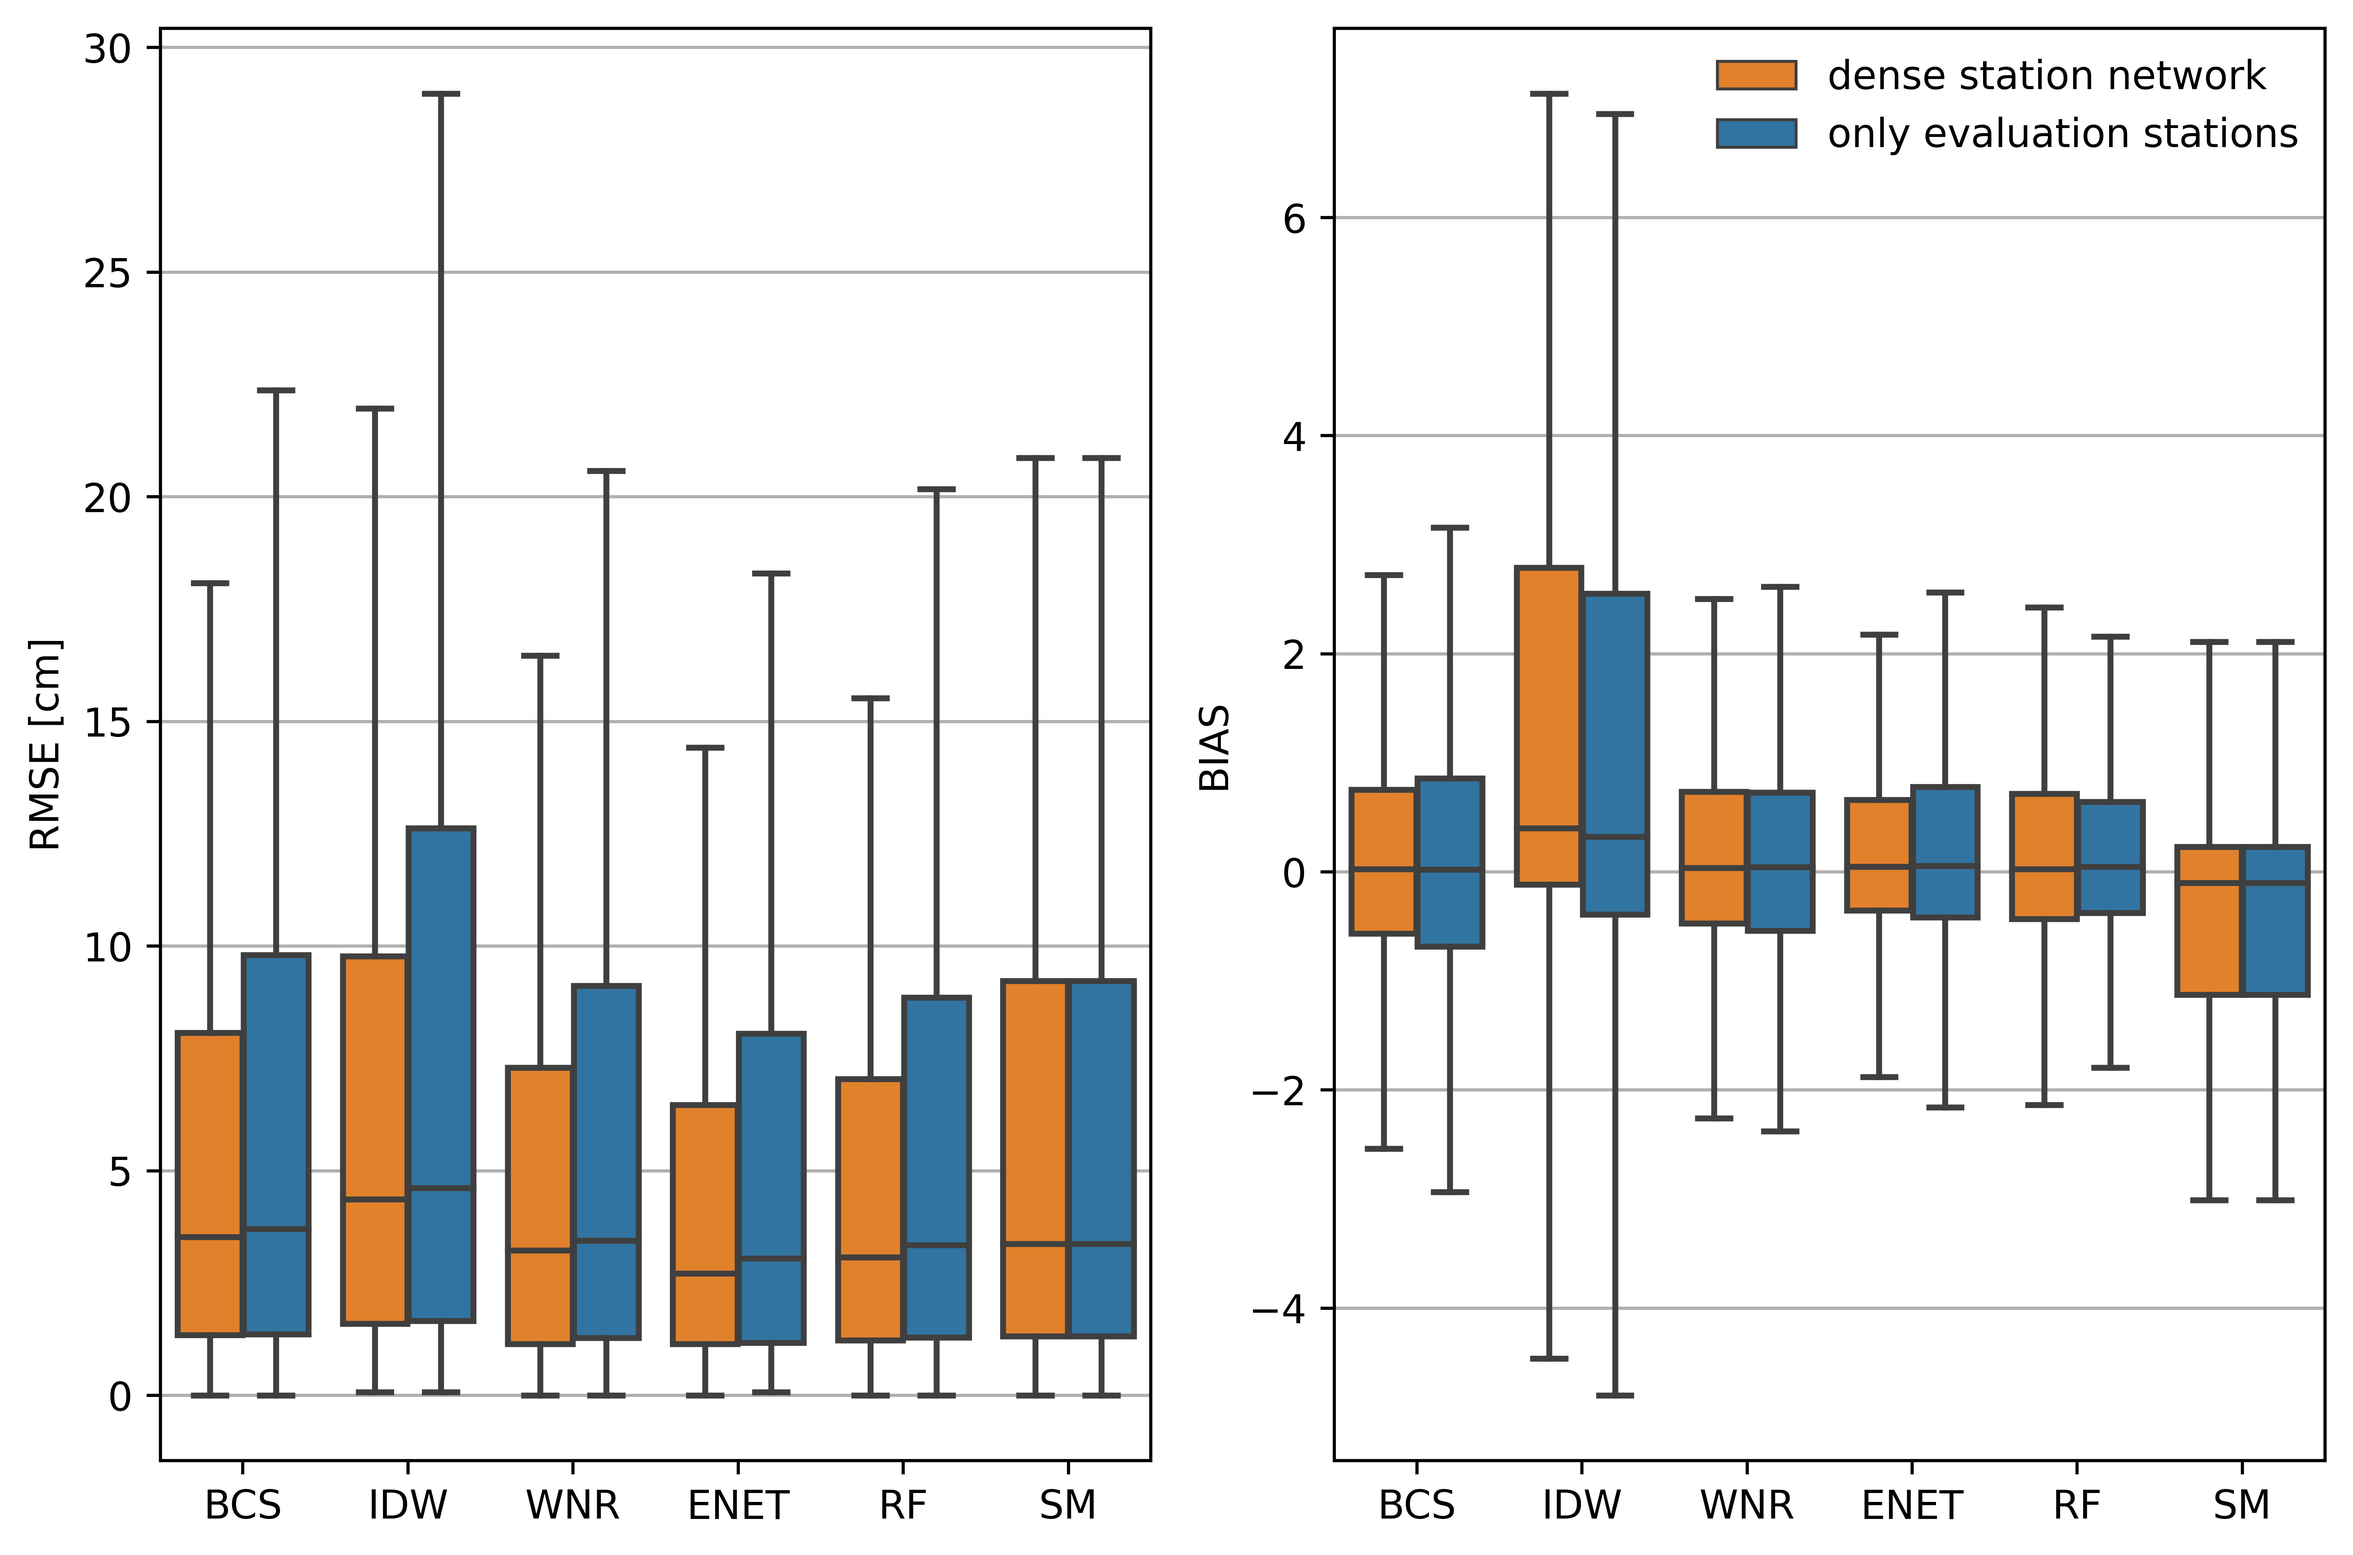
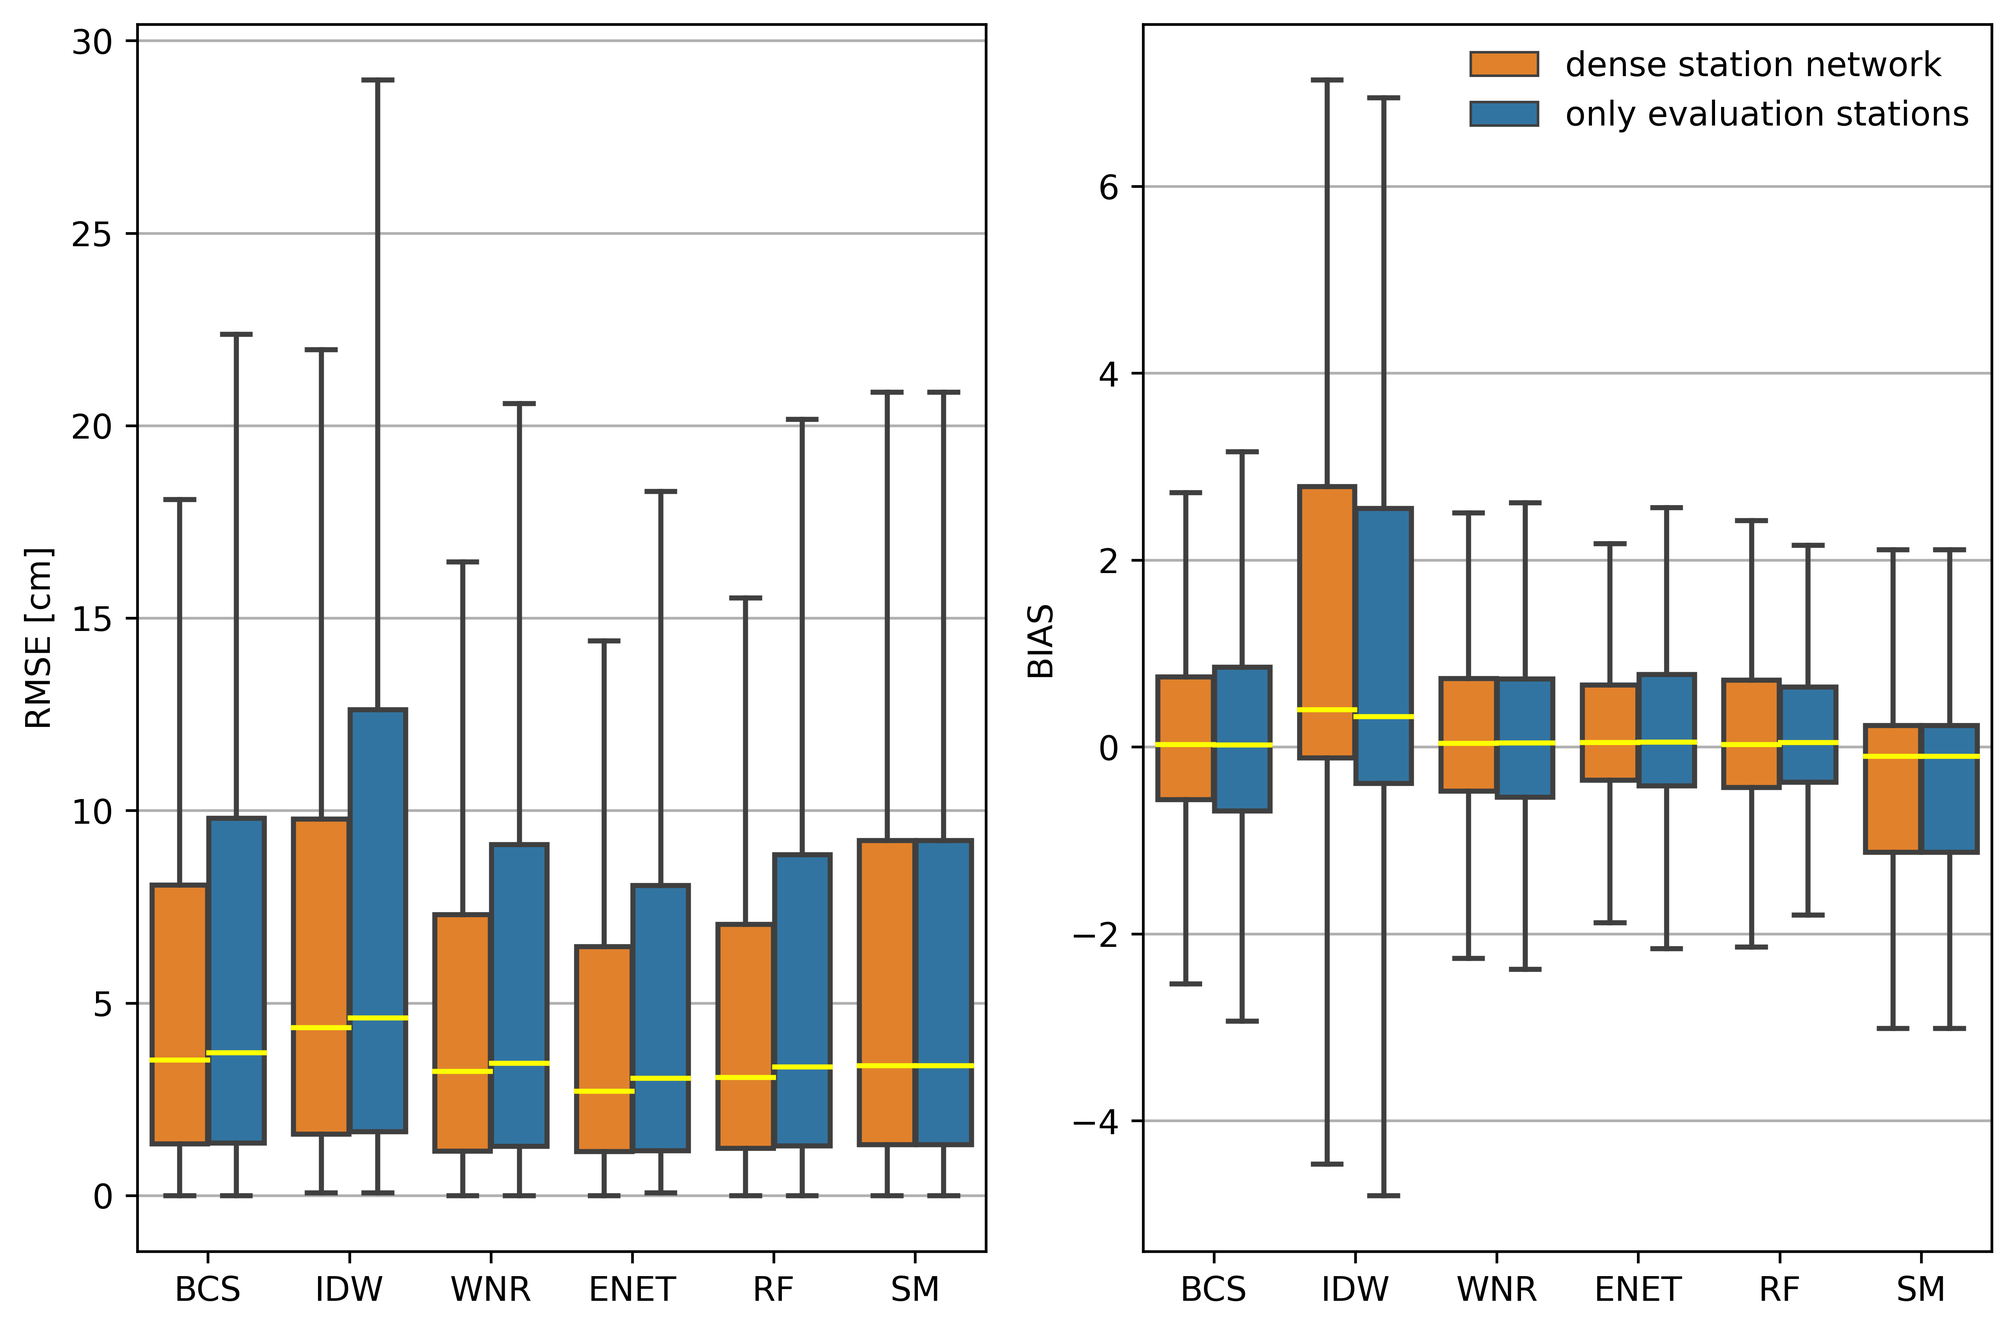
update plots

diff --git a/src/cv_evaluate_scores.py b/src/cv_evaluate_scores.py
@@ -212,12 +212,21 @@ def scatterplot_true_vs_pred(
         legend_kw=None,
         equal_xy_axes=False,
         fitlines=False,
-        score_df=sc
+        print_score_values=False,
+        score_df=sc,
+        panel_height=2.25,
+        panel_width=2.1,
+        sharex=False,
+        sharey=False,
+        individual_panel_labels=False,
+        global_x_label='measured [cm or days]',
+        global_y_label='modeled [cm or days]',
+        markersize=5
         ):
 
     fig, axes = plt.subplots(len(climate_metrics),len(methods_used),
-                             figsize=[len(methods_used)*2.1,len(climate_metrics)*2.5], 
-                             sharex=False, sharey=False)
+                             figsize=[len(methods_used)*panel_width,len(climate_metrics)*panel_height], 
+                             sharex=sharex, sharey=sharey)
     
     #different markers and colors for different station grids:
     markers={'full': "s",
@@ -255,6 +264,7 @@ def scatterplot_true_vs_pred(
                     ax=axes[row,column],
                     color=color,
                     marker=marker,
+                    s=markersize,
                     alpha=0.4,
                     label=station_grid)
 
@@ -288,21 +298,28 @@ def scatterplot_true_vs_pred(
 
                 # y-labels
                 if column == 0:
-                    axes[row,column].set_ylabel(f'{metric} modeled{units[metric]}', fontsize=11)
+                    if individual_panel_labels:
+                        axes[row,column].set_ylabel(f'{metric} modeled{units[metric]}', fontsize=11)
+                    else:
+                        axes[row,column].set_ylabel(f'{metric}', fontsize=13)
+                        axes[row,column].yaxis.set_label_coords(-0.4,0.5)
                 else:
                     axes[row,column].set_ylabel(None)
                     axes[row,column].tick_params(labelleft=False)
                 
-                axes[row,column].set_xlabel(f'{metric} measured{units[metric]}',
-                                            fontsize=11)
-
+                if individual_panel_labels:
+                    axes[row,column].set_xlabel(f'{metric} measured{units[metric]}',
+                                                fontsize=11)
+                else:
+                    axes[row,column].set_xlabel(None)
+                
                 # titles
                 if row == 0:
                     axes[row,column].set_title(pu.METHOD_NAMES[method], fontsize=13)
                     if legend_kw['bbox_to_anchor']=='below_titles':
                         axes[row,column].set_title(f'{pu.METHOD_NAMES[method]}\n', fontsize=13)
     
-    if fitlines:
+    if print_score_values:
         # Annotations with mixed colors: extremely hacky...
         for score_metric in ['rmse','r2','bias']:
             for row, metric in enumerate(climate_metrics):
@@ -323,7 +340,7 @@ def scatterplot_true_vs_pred(
                         score_sparse = score_annotations[f"{method}{metric}only_target_stations{score_metric}"]
                         plt.rcParams.update({
                                 "text.usetex": True})
-                        fs = 12.5
+                        fs = 11.5
     
                         
                         x_pos = {'full':0.80, 'only_target_stations':0.99}
@@ -420,7 +437,11 @@ def scatterplot_true_vs_pred(
     # draw x=y line:
     for ax in axes.flatten():
         ax.axline([0, 0], [1, 1], color='k',lw=0.9)
-            
+    
+    if not individual_panel_labels:
+        fig.text(0.5, 0.0, global_x_label, ha='center', va='center')
+        fig.text(0.04, 0.5, global_y_label, ha='center', va='center', rotation='vertical')
+    
     plt.tight_layout()
     if no_legend:
         if filename is not None:
@@ -447,7 +468,7 @@ def scatterplot_true_vs_pred(
         
         if legend_kw['bbox_to_anchor']=='below_titles':
             legend_kw['loc'] = 'upper center'
-            legend_kw['bbox_to_anchor'] = (0.515, 0.96)
+            legend_kw['bbox_to_anchor'] = (0.515, 0.955)
             legend_kw['borderaxespad'] = 0.
             legend_kw['ncol'] = 2
             legend_kw['fancybox'] = False
@@ -515,6 +536,7 @@ def evaluation_boxplot(methods_used,
             # sym='',
             showfliers=showfliers,
             flierprops={'marker':'x'},
+            medianprops={'color':'yellow'},
             ax=ax)
 
         try:
@@ -661,6 +683,7 @@ def scatter_and_boxplot_subgrid(
                         # sym='',
                         # showfliers=False,
                         flierprops={'marker':'x'},
+                        medianprops={'color':'yellow'},
                         ax=outer_ax[1])
                     for ax in outer_ax:
                         ax.get_legend().remove()
@@ -832,6 +855,7 @@ def scatterboxbins(
                 showfliers=showfliers,
                 flierprops={'marker':'d',
                             'markersize':2},
+                medianprops={'color':'yellow'},
                 ax=axs[row,column])
             
             axs[row,column].get_legend().remove()

diff --git a/src/cross_validation_evaluation_script.py b/src/cross_validation_evaluation_script.py
@@ -30,22 +30,19 @@ METHODS = [
     'matiu vertical weighted_min_corr_-1.0',
     'Elastic Net Regression',
     'RandomForest_V3.5',
-    'SWE2HS_Snow17_shifted_dates',
-    # 'ERA5-land_mean_ratio',
-    # 'ERA5-land_no_scaling',
-    'ERA5-land_RF_surrounding_gridcells_max_depth_70_n_estimators_200'
+    'SWE2HS_Snow17_shifted_dates'
     ]
 
 def main():
     
-    # # run the different evaluation scripts (generates a lot of figures
-    # # for exploration, figure storage locations are logged)
+    # run the different evaluation scripts (generates a lot of figures
+    # for exploration, figure storage locations are logged)
     
-    # cv_evaluate_scores.main(METHODS)
-    # cv_evaluate_good_and_bad_examples.main(methods_used=METHODS)
-    # cv_evaluate_climate_indices_timeseries.main(methods_used=METHODS)
-    # cv_evaluate_true_vs_pred_daily.main(methods_used=METHODS)
-    # station_elevation_distribution.main()
+    cv_evaluate_scores.main(METHODS)
+    cv_evaluate_good_and_bad_examples.main(methods_used=METHODS)
+    cv_evaluate_climate_indices_timeseries.main(methods_used=METHODS)
+    cv_evaluate_true_vs_pred_daily.main(methods_used=METHODS)
+    station_elevation_distribution.main()
     
     
     # Make Figures for the paper and save to PAPER_FIGURE_DIR
@@ -68,14 +65,14 @@ def main():
         )
     
     
-    # DAILY VALUES / SCORES:
-    # ----------------------
+    # # DAILY VALUES / SCORES:
+    # # ----------------------
     
     # FIGURE 3: Scatterplots of reconstructed vs true daily values
     cv_evaluate_true_vs_pred_daily.scatterplot_true_pred_daily(
         METHODS,
         f'{PAPER_FIGURE_DIR}fig03_scatter_true_pred_daily.png',
-        dpi=700,
+        dpi=600,
         equal_xy_axes=True)
     
     # Scatterplots rmse/MAAPE vs HSavg along with boxplots:
@@ -84,7 +81,7 @@ def main():
         ['RMSE', 'BIAS'],
         'HSavg_true',
         filename=f'{PAPER_FIGURE_DIR}figA01_scatterbox_RMSE_BIAS_vs_HSavg.png',
-        dpi=1000,
+        dpi=600,
         legend_kw={
             'bbox_to_anchor':'below_titles',
             'frameon': True},
@@ -95,7 +92,7 @@ def main():
         METHODS,
         ['RMSE', 'BIAS'],
         f'{PAPER_FIGURE_DIR}figA02_boxplot_RMSE_BIAS.png',
-        dpi=700,
+        dpi=600,
         showfliers=False)
     
     
@@ -111,7 +108,11 @@ def main():
         legend_kw={
             'bbox_to_anchor':'below_titles'},
         equal_xy_axes=True,
-        fitlines=True)
+        fitlines=True,
+        print_score_values=False,
+        markersize=10)
+    
+    
 
     # FIGURE 6: scatterplot climate metrics abs. error vs. HSavg:
     cv_evaluate_scores.scatterboxbins(
@@ -119,7 +120,7 @@ def main():
         ['HSavg_abs_diff', 'HSmax_abs_diff', 'dHS1_abs_diff'],
         'HSavg_true',
         filename=f'{PAPER_FIGURE_DIR}fig05_scatterbox_climate_metrics_abs_diff_vs_HSavg.png',
-        dpi=1000,
+        dpi=600,
         legend_kw={'bbox_to_anchor':'below_titles'},
         showfliers=True
         )
@@ -130,11 +131,43 @@ def main():
         ['HSavg_diff', 'HSmax_diff', 'dHS1_diff'],
         'HSavg_true',
         filename=f'{PAPER_FIGURE_DIR}fig06_1_scatterbox_climate_metrics_diff_vs_HSavg.png',
-        dpi=1000,
+        dpi=600,
         legend_kw={'bbox_to_anchor':'below_titles'},
         showfliers=False
         )
 
+    # ERA5-land figures:
+    cv_evaluate_scores.scatterplot_true_vs_pred(
+        ['ERA5-land_no_scaling',
+          'ERA5-land_mean_ratio',
+          'ERA5-land_RF_surrounding_gridcells_max_depth_70_n_estimators_200'
+          ],
+        ['HSavg','HSmax','dHS1'],
+        f'{PAPER_FIGURE_DIR}era5land_scatter_true_pred_climate_metrics.png',
+        dpi=500,
+        legend_kw={
+            'bbox_to_anchor':'below_titles'},
+        equal_xy_axes=True,
+        fitlines=True,
+        print_score_values=True,
+        panel_height=2.9,
+        panel_width=2.5,
+        sharex=False,
+        sharey=False,
+        individual_panel_labels=True,
+        global_x_label='measured [cm or days]',
+        global_y_label='modeled [cm or days]')
+    
+    cv_evaluate_true_vs_pred_daily.scatterplot_true_pred_daily(
+        ['ERA5-land_no_scaling',
+          'ERA5-land_mean_ratio',
+          'ERA5-land_RF_surrounding_gridcells_max_depth_70_n_estimators_200'
+          ],
+        f'{PAPER_FIGURE_DIR}era5land_scatter_true_pred_daily.png',
+        dpi=600,
+        equal_xy_axes=True)
+    
+    
 
 if __name__ =='__main__':
     main()

diff --git a/src/number_of_snow_days_threshold.py b/src/number_of_snow_days_threshold.py
@@ -81,7 +81,7 @@ if __name__ == '__main__':
         df[f'dHS{n}_abs_diff'] = df[f'dHS{n}_true'].sub(df[f'dHS{n}_pred']).abs()
     cv_evaluate_scores.scatterboxbins(
         METHODS,
-        metrcs_used=['dHS1_abs_diff',
+        metrics_used=['dHS1_abs_diff',
                      'dHS2_abs_diff',
                      'dHS5_abs_diff',
                      'dHS10_abs_diff',
@@ -90,5 +90,24 @@ if __name__ == '__main__':
         filename=f'{plot_output}scatterbox_dHSn_abs_diff_vs_HSavg.png',
         dpi=600,
         legend_kw={'bbox_to_anchor':'below_titles'},
-        showfliers=True
+        showfliers=True,
+        score_df=df
+        )
+    
+    
+    for n in {2,5,10,30}:
+        df[f'dHS{n}_diff'] = df[f'dHS{n}_true'].sub(df[f'dHS{n}_pred'])
+    cv_evaluate_scores.scatterboxbins(
+        METHODS,
+        metrics_used=['dHS1_diff',
+                     'dHS2_diff',
+                     'dHS5_diff',
+                     'dHS10_diff',
+                     'dHS30_diff'],
+        xaxs_value='HSavg_true',
+        filename=f'{plot_output}scatterbox_dHSn_diff_vs_HSavg.png',
+        dpi=600,
+        legend_kw={'bbox_to_anchor':'below_titles'},
+        showfliers=True,
+        score_df=df
         )

diff --git a/src/plot_influence_of_number_of_stations.py b/src/plot_influence_of_number_of_stations.py
@@ -261,7 +261,8 @@ def make_paper_figure_boxplots(filename=None,
         data=plot_data,
         order=[pu.METHOD_NAMES[m] for m in methods_used],
         ax=ax1,
-        showfliers=False
+        showfliers=False,
+        medianprops={'color':'yellow'}
         )
     
     p1.legend_.set_title('max. number of\npredictor stations')
@@ -281,7 +282,8 @@ def make_paper_figure_boxplots(filename=None,
         data=plot_data,
         order=[pu.METHOD_NAMES[m] for m in methods_used],
         ax=ax2,
-        showfliers=False
+        showfliers=False,
+        medianprops={'color':'yellow'}
         )
     
     

diff --git a/src/plotting_utils.py b/src/plotting_utils.py
@@ -36,9 +36,9 @@ METHOD_NAMES = {
     'RandomForest_V3.5': 'RF',
     'RandomForest_V4': 'RandomForest_V4',
     'RandomForest_V4.1': 'RandomForest_V4.1',
-    'ERA5-land_mean_ratio':'ERA5mr',
-    'ERA5-land_no_scaling':'ERA5nos',
-    'ERA5-land_RF_surrounding_gridcells_max_depth_70_n_estimators_200':'ERA5RF'}
+    'ERA5-land_mean_ratio':'ERA5mrbc',
+    'ERA5-land_no_scaling':'ERA5nobc',
+    'ERA5-land_RF_surrounding_gridcells_max_depth_70_n_estimators_200':'ERA5rf'}
 
 GRIDLABELS = {
     'full':'dense station network',
